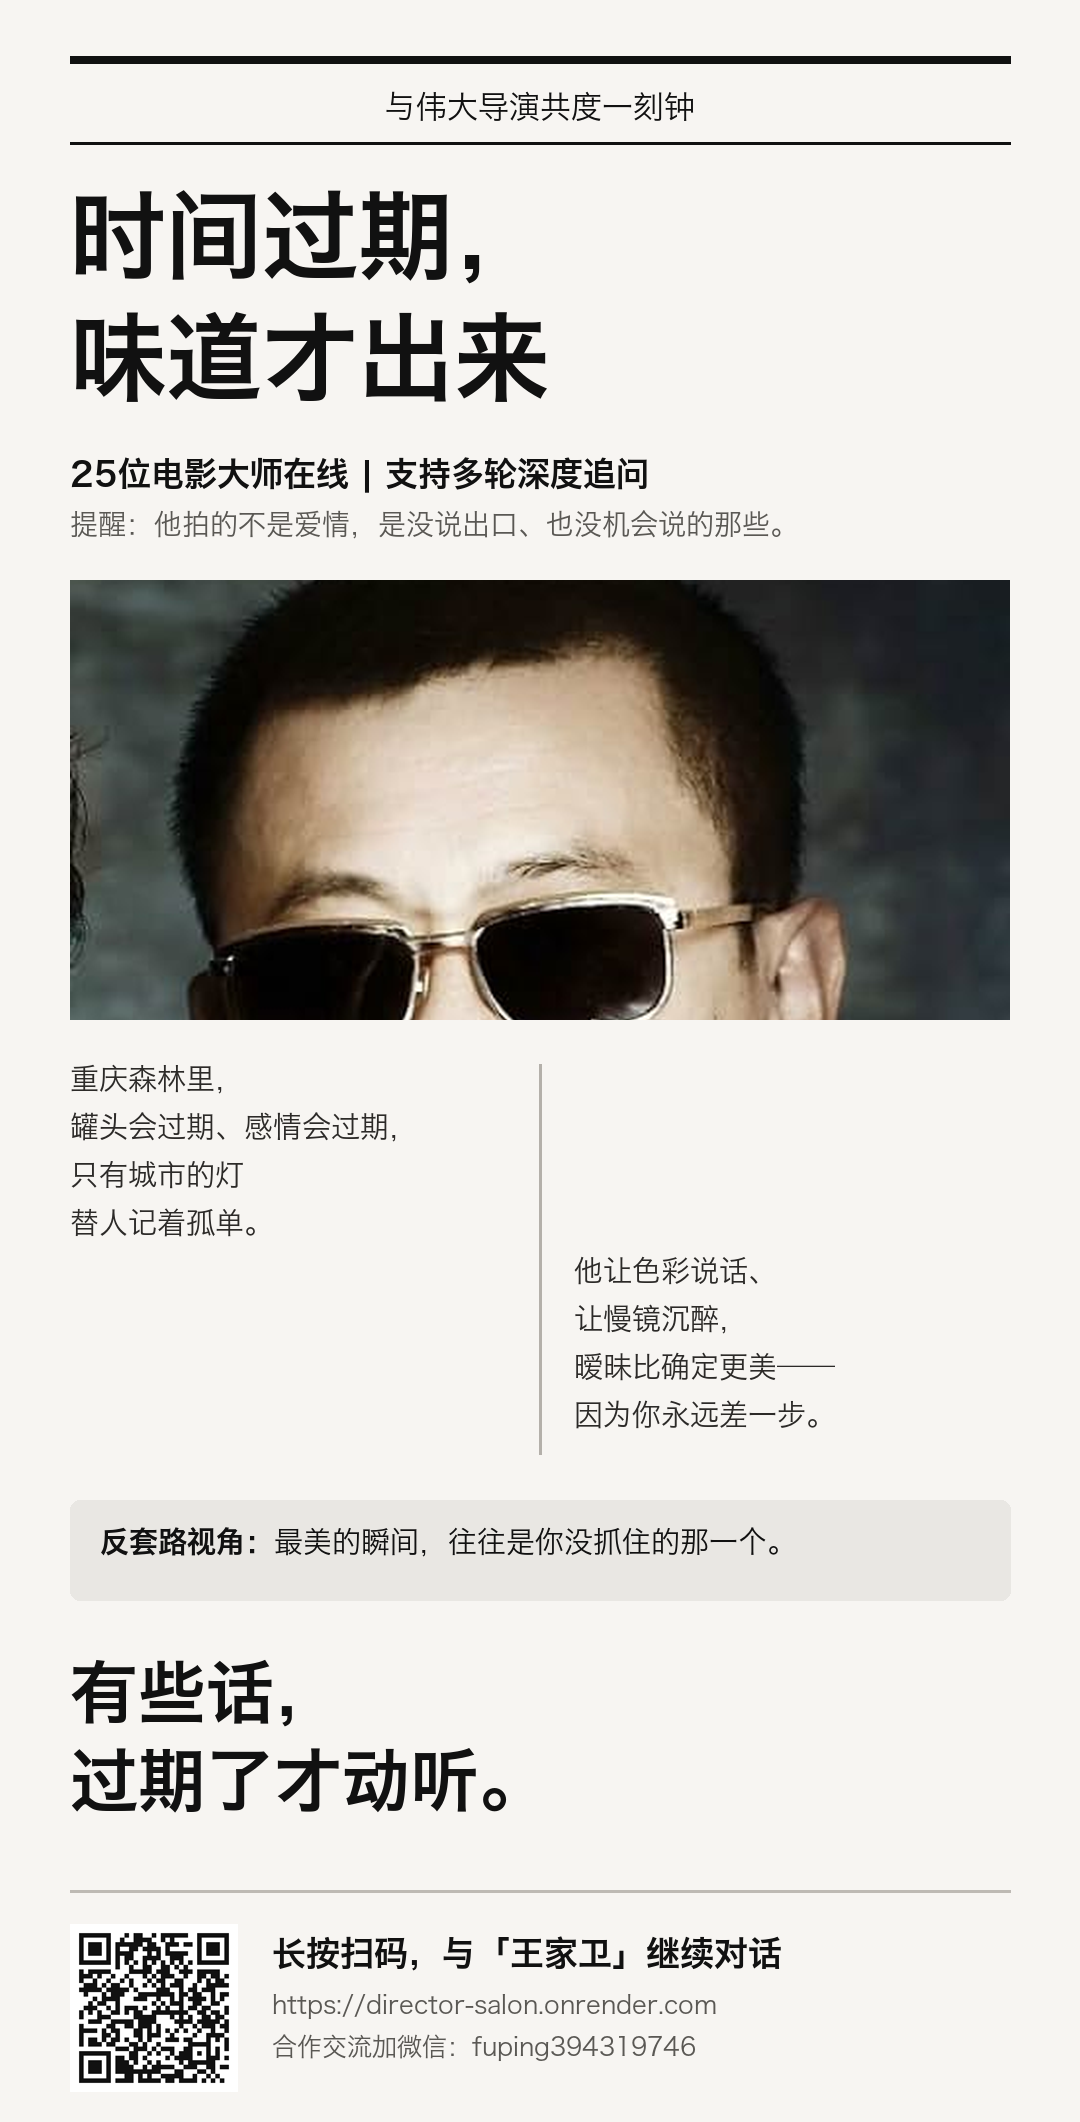
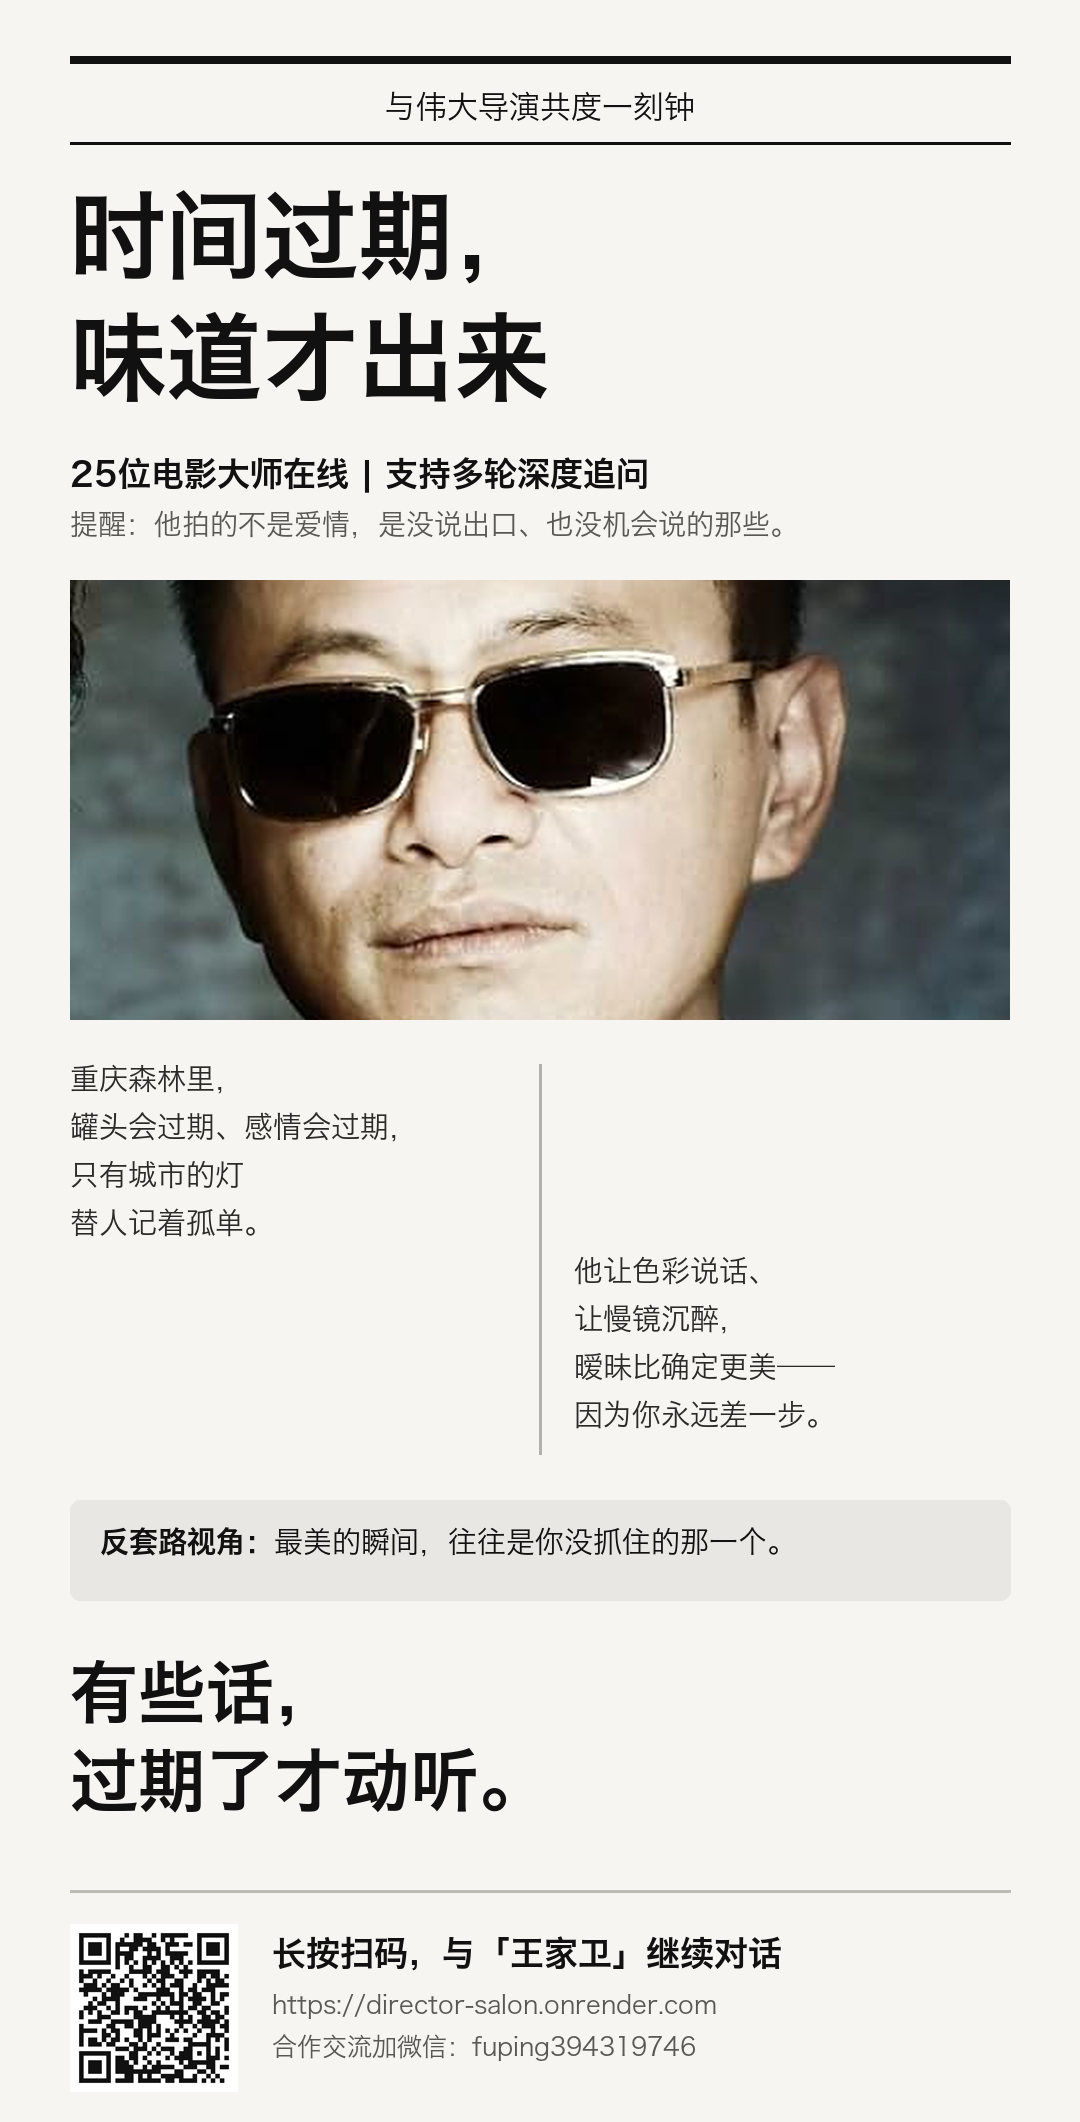
fix: 王家卫卡片人像窗口下移(0.18->0.44)，露出墨镜到下巴完整面部

Changed region(s): [[0.0611, 0.2488, 0.9472, 0.4976], [0.7944, 0.3732, 0.8556, 0.4043]]

diff --git a/directors/share/make_flow_cards.py b/directors/share/make_flow_cards.py
@@ -78,7 +78,7 @@ def wrap(text, fnt, max_w):
 CROP_Y = {
     'stanley-kubrick': 0.18,
     'christopher-nolan': 0.20,
-    'wong-kar-wai': 0.18,
+    'wong-kar-wai': 0.44,
     'charlie-chaplin': 0.45,
     'federico-fellini': 0.45,
     'michelangelo-antonioni': 0.50,
